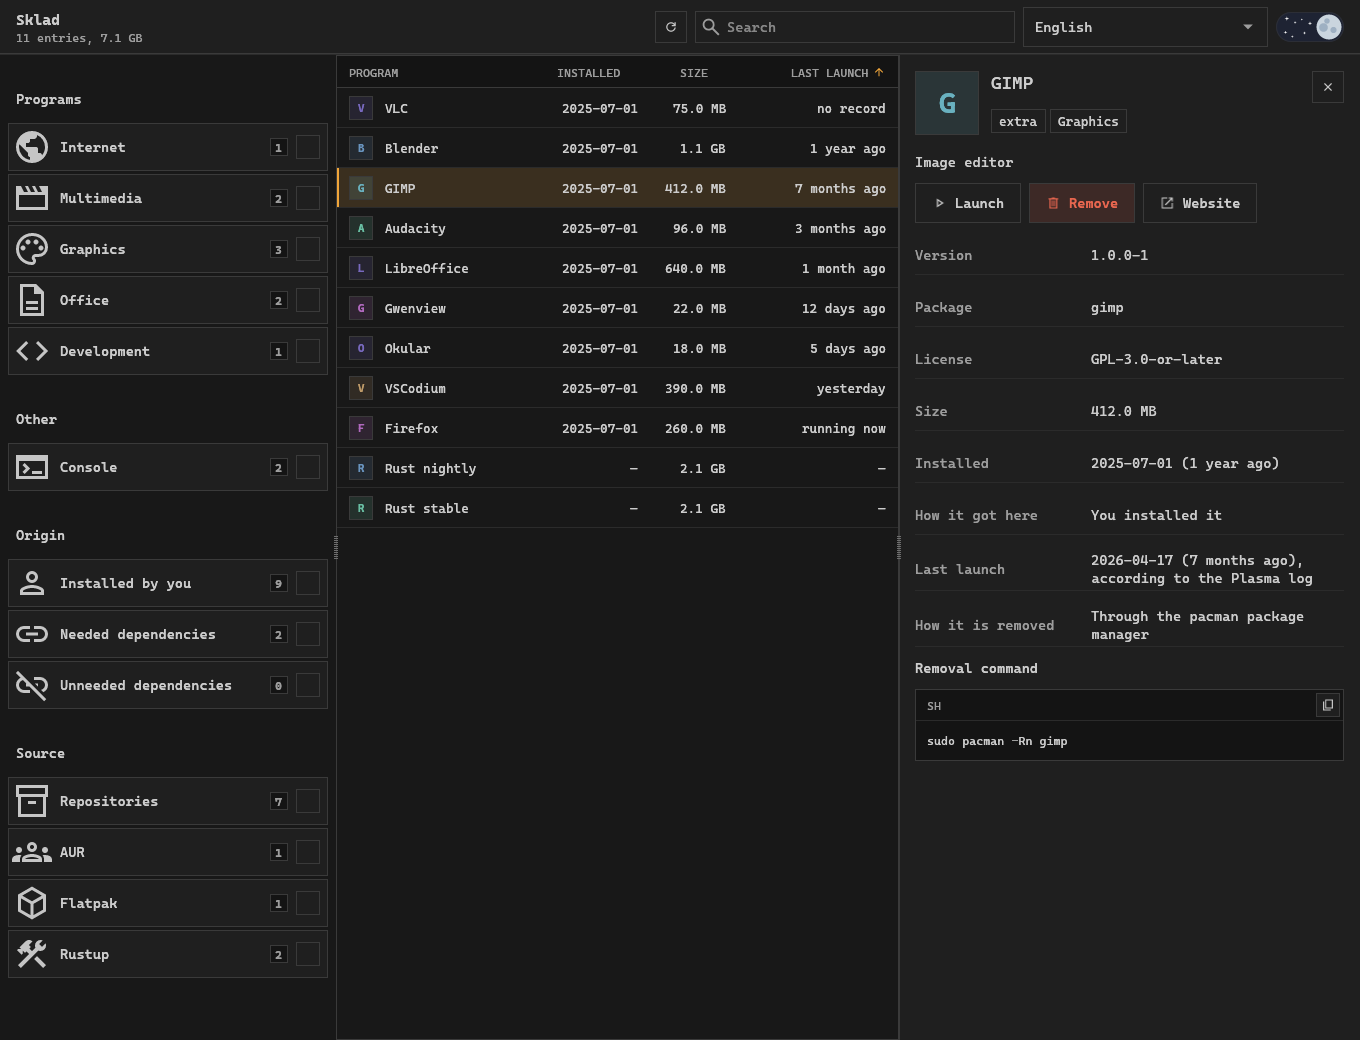
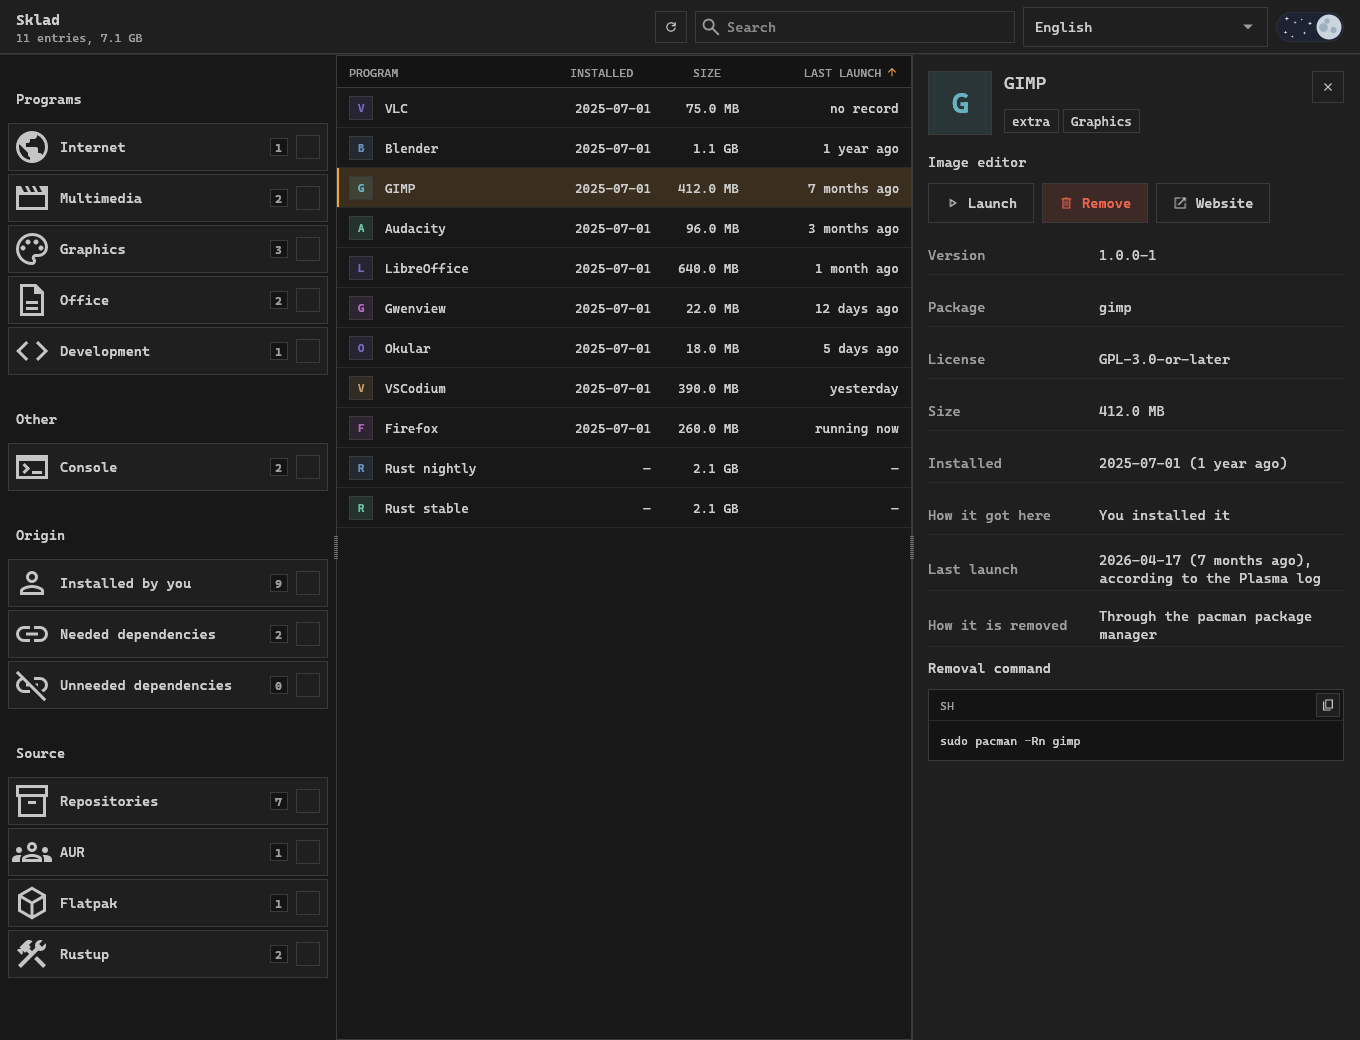
fix(ui): resizing one side pane leaves the other alone
Both SplitPanes kept a share, and the card's was a share of what the side bar left, so widening the side bar narrowed the card. The window now keeps the width of the side bar and of the card in points and turns it into a share each frame; only a move of the divider changes it, not a narrower window. The list between them takes what is left.

diff --git a/src/ui/mod.rs b/src/ui/mod.rs
@@ -68,9 +68,10 @@ pub struct App {
     launched: Option<String>,
     dark: bool,
     applied: Option<bool>,
-    split: f32,
-    /// The share of the side bar, `None` until the window is first laid out.
-    side: Option<f32>,
+    /// The widths of the side bar and of the card, in points. Each stays as the person set it,
+    /// and the list between them takes what the window gives or takes.
+    side: f32,
+    card: f32,
     choice: Choice,
 }
 
@@ -83,8 +84,10 @@ fn unix_now() -> i64 {
 const SIDE_BAR: f32 = du(84.0);
 /// The narrowest the side bar gets, in DU: its labels still fit.
 const SIDE_BAR_MIN: f32 = 64.0;
-/// The share of the list beside the card, at first and after a double click on the divider.
-const SPLIT: f32 = 0.55;
+/// The width of the card at first and after a double click on its divider.
+const CARD: f32 = du(112.0);
+/// The narrowest the list and the card get, in DU.
+const PANE_MIN: f32 = 90.0;
 
 /// The largest number a tile of the side bar shows in full; a catalogue rarely holds more.
 const COUNT_MAX: usize = 99_999;
@@ -180,8 +183,8 @@ impl App {
             launched: None,
             dark,
             applied: None,
-            split: SPLIT,
-            side: None,
+            side: SIDE_BAR,
+            card: CARD,
             choice,
         };
         app.rescan(ctx);
@@ -581,17 +584,20 @@ impl App {
     fn catalogue(&mut self, ui: &mut Ui, now: i64, palette: &Palette) {
         self.filter_bar(ui, palette);
         if self.selection.is_some() {
-            let mut split = self.split;
+            let width = ui.available_width().max(1.0);
+            let mut share = 1.0 - self.card / width;
             let pane = SplitPane {
                 id: Id::unique("list and card"),
-                initial: SPLIT,
-                min_size: 90.0,
+                initial: 1.0 - CARD / width,
+                min_size: PANE_MIN,
             };
-            pane.show(ui, &mut split, palette, |ui, side| match side {
+            let moved = pane.show(ui, &mut share, palette, |ui, side| match side {
                 Pane::Start => self.list(ui, now, palette),
                 Pane::End => self.card(ui, now, palette),
             });
-            self.split = split;
+            if moved {
+                self.card = (1.0 - share) * width;
+            }
         } else {
             self.list(ui, now, palette);
         }
@@ -621,19 +627,20 @@ impl App {
         let centre = Frame::new().fill(palette.background);
         CentralPanel::default().frame(centre).show(ui, |ui| {
             ui.spacing_mut().item_spacing = vec2(0.0, 0.0);
-            // The side bar starts at its own width, whatever the width of the window.
-            let initial = SIDE_BAR / ui.available_width().max(SIDE_BAR);
-            let mut side = self.side.unwrap_or(initial);
+            let width = ui.available_width().max(1.0);
+            let mut share = self.side / width;
             let sections = SplitPane {
                 id: Id::unique("sections and catalogue"),
-                initial,
+                initial: SIDE_BAR / width,
                 min_size: SIDE_BAR_MIN,
             };
-            sections.show(ui, &mut side, palette, |ui, pane| match pane {
+            let moved = sections.show(ui, &mut share, palette, |ui, pane| match pane {
                 Pane::Start => self.side_bar(ui, palette),
                 Pane::End => self.catalogue(ui, now, palette),
             });
-            self.side = Some(side);
+            if moved {
+                self.side = share * width;
+            }
         });
 
         let exit = self.dialog.as_mut().and_then(|dialog| dialog.show(&ctx, palette));

diff --git a/tests/window.rs b/tests/window.rs
@@ -1210,3 +1210,64 @@ fn filters_are_tiles_of_the_side_bar_and_chips_over_the_list() {
         "no chips without filters"
     );
 }
+
+/// Drags the divider at `x` sideways by `by` points with the pointer.
+fn drag_divider(harness: &mut Harness<'_, App>, x: f32, by: f32) {
+    use eframe::egui::{Event, Modifiers, PointerButton, pos2};
+    let at = pos2(x, 600.0);
+    harness.event(Event::PointerMoved(at));
+    harness.step();
+    harness.event(Event::PointerButton {
+        pos: at,
+        button: PointerButton::Primary,
+        pressed: true,
+        modifiers: Modifiers::NONE,
+    });
+    harness.step();
+    for step in 1..=10 {
+        harness.event(Event::PointerMoved(pos2(x + by * step as f32 / 10.0, 600.0)));
+        harness.step();
+    }
+    harness.event(Event::PointerButton {
+        pos: pos2(x + by, 600.0),
+        button: PointerButton::Primary,
+        pressed: false,
+        modifiers: Modifiers::NONE,
+    });
+    settle(harness);
+}
+
+#[test]
+fn a_wider_side_bar_narrows_the_list_and_leaves_the_card_alone() {
+    let mut harness = window(FakeBackend::new(Outcome::Done));
+    settle(&mut harness);
+    harness.get_by_role_and_label(Role::Row, "Редактор").click();
+    settle(&mut harness);
+    let close = harness.get_by_role_and_label(Role::Button, "Закрити").rect();
+    let list = harness.get_by_role_and_label(Role::Row, "Редактор").rect();
+    let dividers: Vec<_> = harness
+        .get_all_by_role(Role::Splitter)
+        .map(|node| node.rect())
+        .collect();
+    assert_eq!(dividers.len(), 2);
+    drag_divider(&mut harness, dividers[0].center().x, 80.0);
+    let moved = harness
+        .get_all_by_role(Role::Splitter)
+        .map(|node| node.rect())
+        .collect::<Vec<_>>();
+    assert!(
+        (moved[0].center().x - dividers[0].center().x - 80.0).abs() < 2.0,
+        "the side bar follows the pointer"
+    );
+    assert_eq!(
+        moved[1].center().x,
+        dividers[1].center().x,
+        "the card keeps its width"
+    );
+    assert_eq!(
+        harness.get_by_role_and_label(Role::Button, "Закрити").rect(),
+        close
+    );
+    let narrower = harness.get_by_role_and_label(Role::Row, "Редактор").rect();
+    assert!(narrower.width() < list.width(), "the list gives the width");
+}

diff --git a/src/ui/operator/content.rs b/src/ui/operator/content.rs
@@ -557,7 +557,15 @@ pub struct SplitPane {
 }
 
 impl SplitPane {
-    pub fn show(&self, ui: &mut Ui, ratio: &mut f32, palette: &Palette, mut pane: impl FnMut(&mut Ui, Pane)) {
+    /// Draws both panes. Returns true when the person moved the divider; a share the clamp
+    /// alone changed, because the window got narrower, does not count.
+    pub fn show(
+        &self,
+        ui: &mut Ui,
+        ratio: &mut f32,
+        palette: &Palette,
+        mut pane: impl FnMut(&mut Ui, Pane),
+    ) -> bool {
         let rect = ui.available_rect_before_wrap();
         ui.allocate_rect(rect, Sense::hover());
         let minimum = du(self.min_size).min(rect.width() / 2.0);
@@ -566,6 +574,7 @@ impl SplitPane {
             share.clamp(lowest, 1.0 - lowest)
         };
         *ratio = clamp(*ratio);
+        let clamped = *ratio;
         let hit = du(dim::GUTTER);
         let x = rect.left() + rect.width() * *ratio;
         let handle = Rect::from_x_y_ranges(x - hit / 2.0..=x + hit / 2.0, rect.y_range());
@@ -632,6 +641,7 @@ impl SplitPane {
         if lit {
             ui.ctx().set_cursor_icon(CursorIcon::ResizeHorizontal);
         }
+        *ratio != clamped
     }
 }
 
